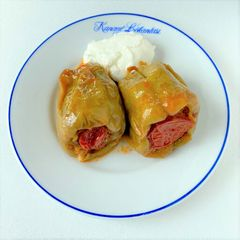
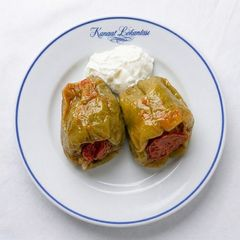
Sürüm 127: Döner, pilav, fırın makarna, revani, köfte, kebap ve kuzu yemekleri fotoğrafları yenilendi
Claude-Session: https://claude.ai/code/session_01MnFcxHf5wCUMMNWreRuoPf

diff --git a/menu/index.html b/menu/index.html
@@ -370,7 +370,7 @@ body.searching #menu{min-height:100vh}
     <p><a href="https://maps.google.com/?q=Kanaat+Lokantas%C4%B1+Selmanipak+Cad.+No:9+%C3%9Csk%C3%BCdar+%C4%B0stanbul" target="_blank" rel="noopener">Selmanipak Cad. No:9, Üsküdar, İstanbul</a></p>
     <p><a href="tel:+902163415444" dir="ltr">+90 216 341 54 44</a></p>
     <p><a class="igfoot" href="https://www.instagram.com/kanaatlokantasi1933/" target="_blank" rel="noopener" dir="ltr"><svg viewBox="0 0 24 24" width="16" height="16" fill="none" stroke="currentColor" stroke-width="2" aria-hidden="true"><rect x="3" y="3" width="18" height="18" rx="5"/><circle cx="12" cy="12" r="4"/><circle cx="17.5" cy="6.5" r="1" fill="currentColor"/></svg>@kanaatlokantasi1933</a></p>
-    <p class="ver" dir="ltr">Sürüm 126 · 27.11.2026</p>
+    <p class="ver" dir="ltr">Sürüm 127 · 27.11.2026</p>
   </div>
 </footer>
 

diff --git a/menu/istatistik/index.html b/menu/istatistik/index.html
@@ -72,7 +72,7 @@ input,select{width:100%;font:inherit;padding:10px 12px;border:1px solid var(--li
     <div class="dates"><input type="date" id="from"> – <input type="date" id="to"></div>
     <div id="out2"><p class="empty">Yükleniyor…</p></div>
   </section>
-  <p class="ver">Kişisel veri tutulmaz: isim, telefon, IP, konum, cihaz bilgisi yok. Sayaçlar günlük toplamdır; görüşlerde sadece puan, yorum ve dil saklanır. · 126 · 27.11.2026</p>
+  <p class="ver">Kişisel veri tutulmaz: isim, telefon, IP, konum, cihaz bilgisi yok. Sayaçlar günlük toplamdır; görüşlerde sadece puan, yorum ve dil saklanır. · 127 · 27.11.2026</p>
 </main>
 <script src="https://www.gstatic.com/firebasejs/10.14.1/firebase-app-compat.js"></script>
 <script src="https://www.gstatic.com/firebasejs/10.14.1/firebase-auth-compat.js"></script>

diff --git a/menu/sw.js b/menu/sw.js
@@ -1,5 +1,5 @@
 // Kanaat QR Menü – çevrimdışı/yavaş internette hızlı açılma
-const V="126 · 27.11.2026";const C="kanaat-menu-v2";
+const V="127 · 27.11.2026";const C="kanaat-menu-v2";
 self.addEventListener("install",e=>{e.waitUntil(caches.open(C).then(c=>c.addAll(["./","img/logo.jpg","img/logo-lacivert.png","img/sef.jpg"]).catch(()=>{})));self.skipWaiting()});
 self.addEventListener("activate",e=>{e.waitUntil(caches.keys().then(ks=>Promise.all(ks.filter(k=>k.startsWith("kanaat-menu-")&&k!==C).map(k=>caches.delete(k)))).then(()=>self.clients.claim()))});
 const timeout=(p,ms)=>new Promise((res,rej)=>{const t=setTimeout(()=>rej(0),ms);p.then(r=>{clearTimeout(t);res(r)},x=>{clearTimeout(t);rej(x)})});

diff --git a/tools/menu-kaynak/build.py b/tools/menu-kaynak/build.py
@@ -2,7 +2,7 @@
 # (15.11.2026'da yeniden yazıldı; çıktısı v103 ile birebir doğrulandı)
 import json, zlib, hashlib, os, re, sys
 
-VERSION = "126 · 27.11.2026"
+VERSION = "127 · 27.11.2026"
 REMOTE = "https://public.takeaseat.io/restaurants/7abc0ee3-bfdc-497b-91a6-ef20a58bacec/"
 B = os.path.dirname(os.path.abspath(__file__))
 ITEMS = os.environ.get("ITEMS", os.path.join(B, "items.txt"))
